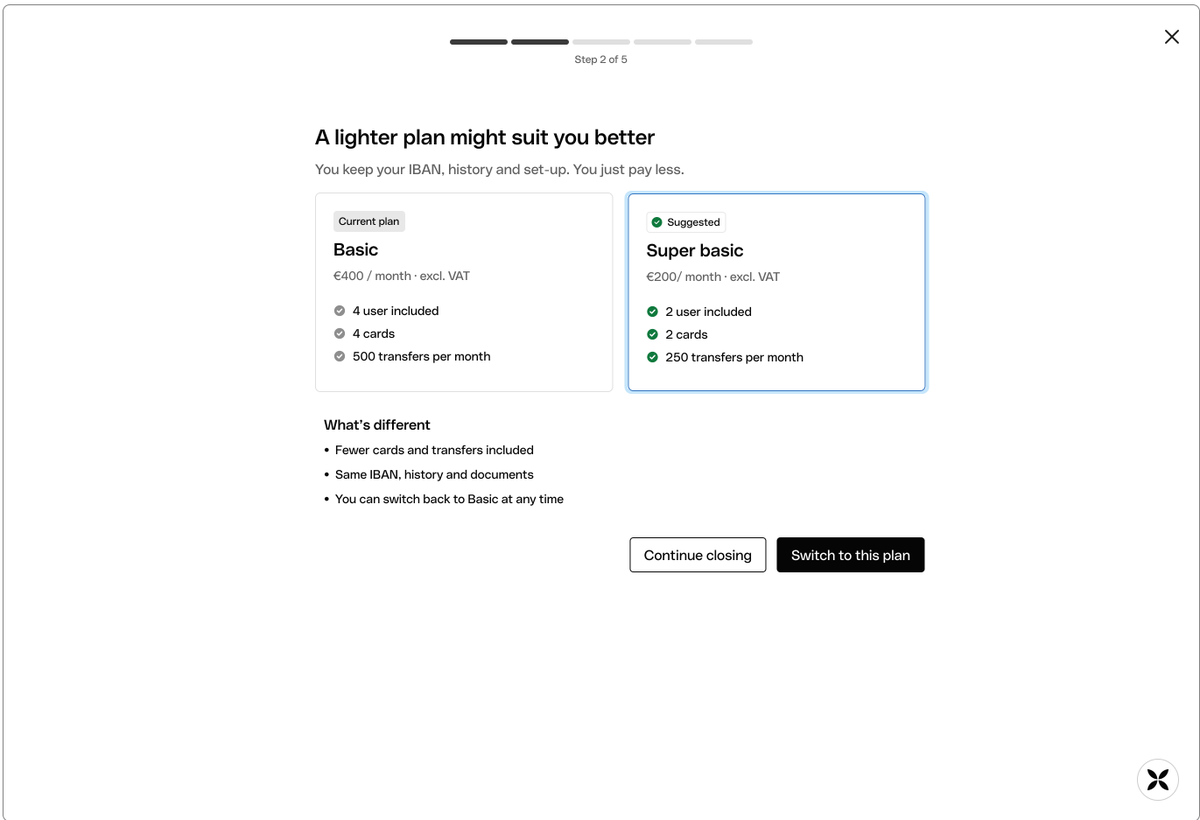
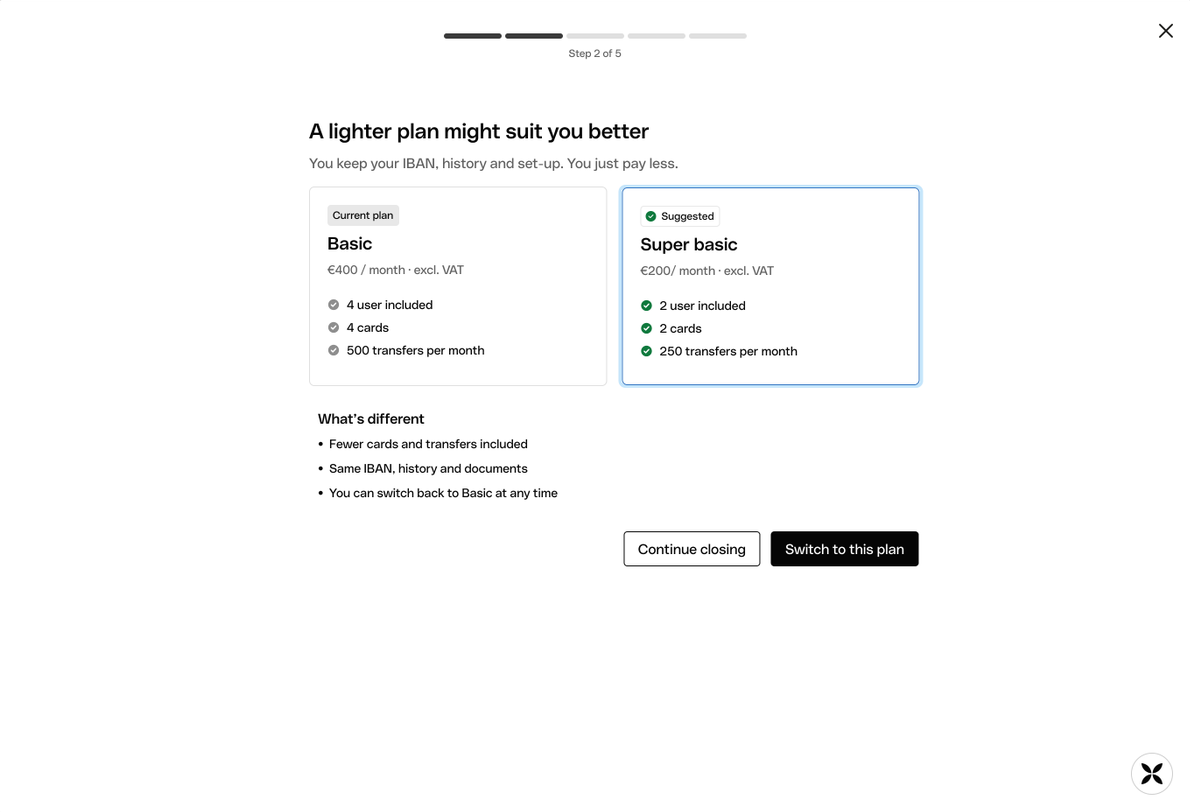
Qonto page: content cleanup, hypotheses and metrics side by side, scenario as a quote, uncropped hi-fi screens, reordered next steps; page is now public
Claude-Session: https://claude.ai/code/session_01TzBzfV87exMVWc8euzdj78

diff --git a/work/qonto.html b/work/qonto.html
@@ -5,7 +5,6 @@
 <meta name="viewport" content="width=device-width, initial-scale=1.0">
 <title data-i18n="meta.title">Cierre de cuenta · Javier Díaz</title>
 <link rel="icon" type="image/svg+xml" href="../favicon.svg">
-<meta name="robots" content="noindex, nofollow">
 <meta name="description" data-i18n="meta.description" data-i18n-attr="content" content="Caso de estudio: rediseño del flujo de cierre de cuenta de Qonto (ejercicio de diseño de producto).">
 
 <!-- Tailwind CDN -->
@@ -138,25 +137,9 @@
 
   <main class="flex-1">
 
-    <!-- ===== PASSWORD GATE ===== -->
-    <section id="password-gate" class="max-w-[1680px] mx-auto px-6 sm:px-16 pt-[91px] sm:pt-[159px] pb-20 min-h-[60vh] flex flex-col justify-center">
-      <div class="max-w-xl mx-auto text-center w-full">
-      <h1 class="t-h2 mb-8" data-i18n="gate.heading">
-        Este proyecto está protegido
-      </h1>
-      <form id="password-form" class="flex flex-col gap-3" autocomplete="off">
-        <label for="password-input" class="sr-only" data-i18n="gate.label">Contraseña</label>
-        <input type="password" id="password-input" name="password" autocomplete="off" placeholder="Introduce la contraseña" data-i18n="gate.placeholder" data-i18n-attr="placeholder" class="focus-ring w-full text-center px-6 py-3.5 rounded-full border border-ink/15 bg-paper text-ink placeholder:text-slate/60">
-        <button type="submit" class="focus-ring inline-flex items-center justify-center gap-2 bg-ink text-paper t-s-m px-6 py-4 rounded-full hover:bg-slate transition-colors" data-i18n="gate.button">
-          Acceder
-        </button>
-        <p id="password-error" class="hidden text-base text-red-600/80 mt-1" data-i18n="gate.error">Contraseña incorrecta. Inténtalo de nuevo.</p>
-      </form>
-      </div>
-    </section>
 
 
-    <div id="protected-content" class="hidden">
+    <div id="protected-content">
 
     <nav id="section-index" class="group/index hidden xl:flex flex-col items-end gap-4 fixed right-6 top-1/2 -translate-y-1/2 z-30" aria-label="Índice de secciones">
       <button type="button" class="section-index-item flex items-center gap-3 focus-ring rounded" data-target="s01">
@@ -205,12 +188,12 @@
     <section class="max-w-[1680px] mx-auto px-6 sm:px-16 pt-[91px] sm:pt-[159px]">
       <h1 class="reveal is-visible t-h1" data-i18n="hero.title">Cierre de cuenta</h1>
 
-      <p class="reveal is-visible mt-6 t-h4 text-slate" data-i18n="hero.subtitle">Rediseño del flujo de cierre de cuenta para que marcharse sea claro, justo y seguro, y para que Qonto entienda por qué se van sus clientes y recupere a los que de verdad puede ayudar. Proteger primero, aprender después y retener solo cuando realmente ayuda.</p>
+      <p class="reveal is-visible mt-6 t-h4 text-slate" data-i18n="hero.subtitle">Rediseño del flujo de cierre de cuenta para que marcharse sea claro, justo y seguro.</p>
 
       <div class="reveal is-visible mt-8 sm:mt-12 pt-0 sm:pt-8 grid grid-cols-2 sm:grid-cols-4 gap-x-6 gap-y-6 sm:gap-8">
         <div><p class="t-h6 text-slate mb-1 sm:mb-2" data-i18n="hero.role.label">Rol</p><p class="t-h5 t-meta text-ink" data-i18n="hero.role.value">Product Designer</p></div>
         <div><p class="t-h6 text-slate mb-1 sm:mb-2" data-i18n="hero.year.label">Año</p><p class="t-h5 t-meta text-ink" data-i18n="hero.year.value">2026</p></div>
-        <div><p class="t-h6 text-slate mb-1 sm:mb-2" data-i18n="hero.team.label">Equipo</p><p class="t-h5 t-meta text-ink" data-i18n="hero.team.value">Individual</p></div>
+        <div><p class="t-h6 text-slate mb-1 sm:mb-2" data-i18n="hero.team.label">Formato</p><p class="t-h5 t-meta text-ink" data-i18n="hero.team.value">Caso de estudio</p></div>
       </div>
 
       <div class="mt-16 md:mt-20">
@@ -241,7 +224,7 @@
         <span class="t-h6 text-slate" data-i18n="s03.eyebrow">Análisis del flujo actual</span>
       </div>
       <h2 class="reveal t-h2 mb-4 md:mb-6" data-i18n="s03.heading">Un flujo que informa, pero no ayuda</h2>
-<div class="reveal mb-8 md:mb-14"><p class="t-p text-slate" data-i18n="s03.p1">Analicé una a una las cinco pantallas del flujo actual: qué funciona y conviene conservar, los puntos de dolor (posibles riesgos para la persona) y las mejoras de diseño. Esta tabla resume el análisis.</p></div><div class="reveal overflow-x-auto rounded-2xl border border-ink/15 bg-paper"><img src="qonto/flow-summary.png" alt="Tabla resumen del análisis del flujo actual, pantalla a pantalla: qué funciona, puntos de dolor y mejoras" data-i18n="s03.img" data-i18n-attr="alt" class="block w-full h-auto min-w-[900px] md:min-w-0" loading="lazy"></div><p class="reveal text-base text-slate mt-3" data-i18n="s03.img.cap">Resumen del análisis de las cinco pantallas: introducción, motivos, detalle del motivo, consecuencias y confirmación.</p><div class="reveal mt-10 md:mt-20 mb-6"><h3 class="t-h4 t-medium mb-2" data-i18n="s03.ins.h">Seis conclusiones</h3></div><div class="reveal mb-8 md:mb-14 grid sm:grid-cols-2 gap-x-8 gap-y-10 md:gap-x-10">
+<div class="reveal mb-8 md:mb-14"><p class="t-p text-slate" data-i18n="s03.p1">Analicé una a una las cinco pantallas del flujo actual: qué funciona y conviene conservar, los puntos de dolor (posibles riesgos para la persona) y las mejoras de diseño. Esta tabla resume el análisis.</p></div><div class="reveal overflow-x-auto rounded-2xl border border-ink/15 bg-paper"><img src="qonto/flow-summary.png" alt="Tabla resumen del análisis del flujo actual, pantalla a pantalla: qué funciona, puntos de dolor y mejoras" data-i18n="s03.img" data-i18n-attr="alt" class="block w-full h-auto min-w-[900px] md:min-w-0" loading="lazy"></div><p class="reveal text-base text-slate mt-3" data-i18n="s03.img.cap">Resumen del análisis de las cinco pantallas: introducción, motivos, detalle del motivo, consecuencias y confirmación.</p><div class="reveal mt-10 md:mt-20 mb-8 md:mb-14 grid sm:grid-cols-2 gap-x-8 gap-y-10 md:gap-x-10">
 <div class="sm:border-l sm:border-ink/[0.08] sm:pl-8 sm:-ml-px"><h3 class="t-h4 t-medium mb-2" data-i18n="s03i.c1.h">Dice qué hacer, pero no ayuda a hacerlo</h3><div class="t-p text-slate" data-i18n="s03i.c1.p">Los requisitos (saldo a 0 €, sin pagos pendientes) se listan al inicio y se repiten al final, pero nunca se comprueban ni se pueden resolver dentro del flujo.</div></div>
 <div class="sm:border-l sm:border-ink/[0.08] sm:pl-8"><h3 class="t-h4 t-medium mb-2" data-i18n="s03i.c2.h">Pregunta por qué se van, pero no escucha</h3><div class="t-p text-slate" data-i18n="s03i.c2.p">Dos capas de preguntas y el flujo sigue igual para todos. Quien solo pausa, reduce o cambia de titular quizá no necesita cerrar.</div></div>
 <div class="sm:border-l sm:border-ink/[0.08] sm:pl-8 sm:-ml-px"><h3 class="t-h4 t-medium mb-2" data-i18n="s03i.c3.h">El estado del cierre nunca está claro</h3><div class="t-p text-slate" data-i18n="s03i.c3.p">«Estás cerrando», «si cumples los requisitos», «permanentemente» y, al final, una pantalla de «éxito».</div></div>
@@ -282,18 +265,21 @@
         <span class="t-h6 text-slate" data-i18n="s06.eyebrow">Estrategia de producto</span>
       </div>
       <h2 class="reveal t-h2 mb-4 md:mb-6" data-i18n="s06.heading">Del análisis a cinco hipótesis</h2>
-<div class="reveal mb-6"><h3 class="t-h4 t-medium mb-2" data-i18n="s06.prob.h">El problema</h3></div><div class="reveal mb-8 md:mb-14"><p class="t-p text-slate" data-i18n="s06.prob.p">Para una empresa, cerrar una cuenta no es un momento sino una migración: mover el dinero, compartir los nuevos datos bancarios, avisar a la asesoría y conseguir la aprobación de otras personas. El flujo actual lo trata como una lista de requisitos que leer y un formulario que rellenar: enumera requisitos sin ayudar a cumplirlos, pregunta por qué se van sin actuar sobre la respuesta y deja poco claros el estado del cierre y los siguientes pasos. Como resultado, las empresas cargan solas con el riesgo y el esfuerzo, y Qonto pierde la oportunidad de aprender de quienes no necesitaban irse.</p></div><div class="reveal mt-10 md:mt-20 mb-6"><h3 class="t-h4 t-medium mb-2" data-i18n="s06.goals.h">Objetivos</h3></div><div class="reveal mb-8 md:mb-14 grid sm:grid-cols-2 gap-x-8 gap-y-10 md:gap-x-10"><div class="sm:border-l sm:border-ink/[0.08] sm:pl-8 sm:-ml-px"><h3 class="t-h4 t-medium mb-2" data-i18n="s06g.c1.h">Para la persona</h3><div class="t-p text-slate" data-i18n="s06g.c1.p"><ul class="list-disc pl-5 space-y-1.5"><li>Irse con seguridad: sin pagos rotos, adeudos fallidos ni cargos sorpresa</li><li>Saber exactamente qué hacer, cuándo se cierra la cuenta y cuánto costará</li><li>Superar la transición: mover el dinero, compartir los nuevos datos bancarios y avisar a la asesoría</li><li>Conservar el acceso a los extractos y tener una prueba del cierre</li><li>Saber si cerrar es siquiera necesario (una pausa, un plan más barato, un cambio de titular)</li></ul></div></div><div class="sm:border-l sm:border-ink/[0.08] sm:pl-8"><h3 class="t-h4 t-medium mb-2" data-i18n="s06g.c2.h">Para el negocio</h3><div class="t-p text-slate" data-i18n="s06g.c2.p"><ul class="list-disc pl-5 space-y-1.5"><li>Retener a los clientes que no necesitaban irse, con ofertas relevantes para ellos</li><li>Capturar motivos de cierre estructurados y accionables</li><li>Reducir los contactos a soporte y el trabajo manual de Ops</li><li>Cumplir con la conservación de datos, las aprobaciones y la información obligatoria</li><li>Dejar una buena última impresión, para que puedan volver</li></ul></div></div></div><div class="reveal mt-10 md:mt-20 mb-6"><h3 class="t-h4 t-medium mb-2" data-i18n="s06.hyp.h">Cinco hipótesis</h3></div><div class="reveal mb-8 md:mb-14 grid sm:grid-cols-3 gap-x-8 gap-y-10 md:gap-x-10">
+<div class="reveal mb-8 md:mb-14"><p class="t-p text-slate" data-i18n="s06.prob.p">Para una empresa, cerrar una cuenta no es un momento sino una migración: mover el dinero, compartir los nuevos datos bancarios, avisar a la asesoría y conseguir la aprobación de otras personas. El flujo actual lo trata como una lista de requisitos que leer y un formulario que rellenar: enumera requisitos sin ayudar a cumplirlos, pregunta por qué se van sin actuar sobre la respuesta y deja poco claros el estado del cierre y los siguientes pasos. Como resultado, las empresas cargan solas con el riesgo y el esfuerzo, y Qonto pierde la oportunidad de aprender de quienes no necesitaban irse.</p></div><div class="reveal mt-10 md:mt-20 mb-6"><h3 class="t-h4 t-medium mb-2" data-i18n="s06.goals.h">Objetivos</h3></div><div class="reveal mb-8 md:mb-14 grid sm:grid-cols-2 gap-x-8 gap-y-10 md:gap-x-10"><div class="sm:border-l sm:border-ink/[0.08] sm:pl-8 sm:-ml-px"><h3 class="t-h4 t-medium mb-2" data-i18n="s06g.c1.h">Para la persona</h3><div class="t-p text-slate" data-i18n="s06g.c1.p"><ul class="list-disc pl-5 space-y-1.5"><li>Irse con seguridad: sin pagos rotos, adeudos fallidos ni cargos sorpresa</li><li>Saber exactamente qué hacer, cuándo se cierra la cuenta y cuánto costará</li><li>Superar la transición: mover el dinero, compartir los nuevos datos bancarios y avisar a la asesoría</li><li>Conservar el acceso a los extractos y tener una prueba del cierre</li><li>Saber si cerrar es siquiera necesario (una pausa, un plan más barato, un cambio de titular)</li></ul></div></div><div class="sm:border-l sm:border-ink/[0.08] sm:pl-8"><h3 class="t-h4 t-medium mb-2" data-i18n="s06g.c2.h">Para el negocio</h3><div class="t-p text-slate" data-i18n="s06g.c2.p"><ul class="list-disc pl-5 space-y-1.5"><li>Retener a los clientes que no necesitaban irse, con ofertas relevantes para ellos</li><li>Capturar motivos de cierre estructurados y accionables</li><li>Reducir los contactos a soporte y el trabajo manual de Ops</li><li>Cumplir con la conservación de datos, las aprobaciones y la información obligatoria</li><li>Dejar una buena última impresión, para que puedan volver</li></ul></div></div></div><div class="reveal mt-10 md:mt-20 grid md:grid-cols-2 gap-x-10 gap-y-14">
+<div><div class="mb-6"><h3 class="t-h4 t-medium mb-2" data-i18n="s06.hyp.h">Cinco hipótesis</h3></div><div class="grid gap-y-10">
 <div class="sm:border-l sm:border-ink/[0.08] sm:pl-8 sm:-ml-px"><h3 class="t-h4 t-medium mb-2" data-i18n="s06h.c1.h">H1 · Requisitos sobre los que se puede actuar</h3><div class="t-p text-slate" data-i18n="s06h.c1.p">Creemos que mostrar cada requisito con su estado real y una acción en línea (por ejemplo, «Transferir el saldo restante») reducirá los cierres aplazados y los contactos a soporte, porque hoy hay que salir del flujo para comprobarlos y arreglarlos.</div></div>
 <div class="sm:border-l sm:border-ink/[0.08] sm:pl-8"><h3 class="t-h4 t-medium mb-2" data-i18n="s06h.c2.h">H2 · Siguiente paso según el motivo</h3><div class="t-p text-slate" data-i18n="s06h.c2.p">Creemos que preguntar el motivo una sola vez y adaptar el siguiente paso a él llevará a más usuarios a mantener su cuenta sin dañar la satisfacción.</div></div>
-<div class="sm:border-l sm:border-ink/[0.08] sm:pl-8"><h3 class="t-h4 t-medium mb-2" data-i18n="s06h.c3.h">H3 · Apoyo en la transición</h3><div class="t-p text-slate" data-i18n="s06h.c3.p">Creemos que ayudar a planificar la fecha de cierre, ver los cobros y adeudos entrantes, exportar extractos y avisar a la asesoría reducirá los problemas tras el cierre, porque para una empresa cerrar es una migración, no un momento.</div></div>
-<div class="sm:border-l sm:border-ink/[0.08] sm:pl-8 sm:-ml-px"><h3 class="t-h4 t-medium mb-2" data-i18n="s06h.c4.h">H4 · Estado claro y prueba de cierre</h3><div class="t-p text-slate" data-i18n="s06h.c4.p">Creemos que indicar la fecha de cierre, el coste, qué deja de funcionar y qué se conserva, junto con una confirmación del cierre, reducirá las quejas y generará confianza.</div></div>
-<div class="sm:border-l sm:border-ink/[0.08] sm:pl-8"><h3 class="t-h4 t-medium mb-2" data-i18n="s06h.c5.h">H5 · Roles y aprobaciones visibles</h3><div class="t-p text-slate" data-i18n="s06h.c5.p">Creemos que mostrar quién puede cerrar, quién debe aprobar y avisar a otros administradores evitará cierres discutidos o inesperados, porque en una empresa cerrar es una decisión compartida.</div></div>
-</div><div class="reveal mt-10 md:mt-20 mb-6"><h3 class="t-h4 t-medium mb-2" data-i18n="s06.met.h">Métricas de éxito</h3></div><div class="reveal mb-0 grid sm:grid-cols-3 gap-x-8 gap-y-10 md:gap-x-10">
+<div class="sm:border-l sm:border-ink/[0.08] sm:pl-8 sm:-ml-px"><h3 class="t-h4 t-medium mb-2" data-i18n="s06h.c3.h">H3 · Apoyo en la transición</h3><div class="t-p text-slate" data-i18n="s06h.c3.p">Creemos que ayudar a planificar la fecha de cierre, ver los cobros y adeudos entrantes, exportar extractos y avisar a la asesoría reducirá los problemas tras el cierre, porque para una empresa cerrar es una migración, no un momento.</div></div>
+<div class="sm:border-l sm:border-ink/[0.08] sm:pl-8"><h3 class="t-h4 t-medium mb-2" data-i18n="s06h.c4.h">H4 · Estado claro y prueba de cierre</h3><div class="t-p text-slate" data-i18n="s06h.c4.p">Creemos que indicar la fecha de cierre, el coste, qué deja de funcionar y qué se conserva, junto con una confirmación del cierre, reducirá las quejas y generará confianza.</div></div>
+<div class="sm:border-l sm:border-ink/[0.08] sm:pl-8 sm:-ml-px"><h3 class="t-h4 t-medium mb-2" data-i18n="s06h.c5.h">H5 · Roles y aprobaciones visibles</h3><div class="t-p text-slate" data-i18n="s06h.c5.p">Creemos que mostrar quién puede cerrar, quién debe aprobar y avisar a otros administradores evitará cierres discutidos o inesperados, porque en una empresa cerrar es una decisión compartida.</div></div>
+</div></div>
+<div><div class="mb-6"><h3 class="t-h4 t-medium mb-2" data-i18n="s06.met.h">Métricas de éxito</h3></div><div class="grid gap-y-10">
 <div class="sm:border-l sm:border-ink/[0.08] sm:pl-8 sm:-ml-px"><h3 class="t-h4 t-medium mb-2" data-i18n="s06m.c1.h">Principales</h3><div class="t-p text-slate" data-i18n="s06m.c1.p"><ul class="list-disc pl-5 space-y-1.5"><li>Solicitudes de cierre completadas sin contactar con soporte (H1, H4)</li><li>Cierres completados en la fecha prevista, sin aplazarse (H1)</li></ul></div></div>
 <div class="sm:border-l sm:border-ink/[0.08] sm:pl-8"><h3 class="t-h4 t-medium mb-2" data-i18n="s06m.c2.h">Operaciones</h3><div class="t-p text-slate" data-i18n="s06m.c2.p"><ul class="list-disc pl-5 space-y-1.5"><li>Tickets de soporte por cierre, durante y después del flujo (H1, H3, H4)</li><li>Incidencias tras el cierre: adeudos fallidos, transferencias devueltas, cargos inesperados (H3, H4)</li></ul></div></div>
-<div class="sm:border-l sm:border-ink/[0.08] sm:pl-8"><h3 class="t-h4 t-medium mb-2" data-i18n="s06m.c3.h">Win-back</h3><div class="t-p text-slate" data-i18n="s06m.c3.p"><ul class="list-disc pl-5 space-y-1.5"><li>Usuarios que eligen una alternativa y siguen activos a los 90 días (H2)</li></ul></div></div>
-<div class="sm:border-l sm:border-ink/[0.08] sm:pl-8 sm:-ml-px"><h3 class="t-h4 t-medium mb-2" data-i18n="s06m.c4.h">Información</h3><div class="t-p text-slate" data-i18n="s06m.c4.p"><ul class="list-disc pl-5 space-y-1.5"><li>Cierres con un motivo accionable, no omitido ni vago (H2)</li></ul></div></div>
-<div class="sm:border-l sm:border-ink/[0.08] sm:pl-8"><h3 class="t-h4 t-medium mb-2" data-i18n="s06m.c5.h">Guardarraíles</h3><div class="t-p text-slate" data-i18n="s06m.c5.p"><ul class="list-disc pl-5 space-y-1.5"><li>Tiempo de finalización de quienes ya han decidido cerrar (sin fricción añadida)</li><li>Satisfacción de quienes cierran, con una breve encuesta de salida (sin pérdida de confianza)</li><li>Cierres cancelados antes de la fecha prevista (un pico indicaría consecuencias poco claras)</li></ul></div></div>
+<div class="sm:border-l sm:border-ink/[0.08] sm:pl-8 sm:-ml-px"><h3 class="t-h4 t-medium mb-2" data-i18n="s06m.c3.h">Win-back</h3><div class="t-p text-slate" data-i18n="s06m.c3.p"><ul class="list-disc pl-5 space-y-1.5"><li>Usuarios que eligen una alternativa y siguen activos a los 90 días (H2)</li></ul></div></div>
+<div class="sm:border-l sm:border-ink/[0.08] sm:pl-8"><h3 class="t-h4 t-medium mb-2" data-i18n="s06m.c4.h">Información</h3><div class="t-p text-slate" data-i18n="s06m.c4.p"><ul class="list-disc pl-5 space-y-1.5"><li>Cierres con un motivo accionable, no omitido ni vago (H2)</li></ul></div></div>
+<div class="sm:border-l sm:border-ink/[0.08] sm:pl-8 sm:-ml-px"><h3 class="t-h4 t-medium mb-2" data-i18n="s06m.c5.h">Guardarraíles</h3><div class="t-p text-slate" data-i18n="s06m.c5.p"><ul class="list-disc pl-5 space-y-1.5"><li>Tiempo de finalización de quienes ya han decidido cerrar (sin fricción añadida)</li><li>Satisfacción de quienes cierran, con una breve encuesta de salida (sin pérdida de confianza)</li><li>Cierres cancelados antes de la fecha prevista (un pico indicaría consecuencias poco claras)</li></ul></div></div>
+</div></div>
 </div>
     </section>
 
@@ -314,7 +300,7 @@
         <span class="t-h6 text-slate" data-i18n="s08.eyebrow">Wireframes de baja fidelidad</span>
       </div>
       <h2 class="reveal t-h2 mb-4 md:mb-6" data-i18n="s08.heading">De la lógica a las pantallas</h2>
-<div class="reveal mb-6"><h3 class="t-h4 t-medium mb-2" data-i18n="s01.scn.h">El escenario que diseñé</h3></div><div class="reveal mb-6"><p class="t-p text-slate" data-i18n="s01.scn.p">Una pequeña empresa encuentra Qonto demasiado caro y decide cerrar su cuenta. Qonto le sugiere un plan más ligero, pero lo rechaza y continúa. Antes de cerrar, mueve el saldo restante a su nuevo banco, revisa qué dejará de funcionar y qué se mantiene, y completa el cierre.</p></div><div class="reveal mb-10"><p class="reveal text-base text-slate " data-i18n="s01.note">Los nombres de cuenta, importes y fechas que aparecen en las pantallas son datos de ejemplo.</p></div><div class="reveal mb-10"><p class="t-p text-slate" data-i18n="s08.p1">Antes de pasar a alta fidelidad probé la estructura con wireframes de baja fidelidad del escenario propuesto: el motivo, la opción de un plan más ligero, prepararse para cerrar (con y sin resolver el saldo), la última revisión y la confirmación. Cada pantalla lleva anotada su intención.</p></div><div id="lowfi-carousel" class="reveal group relative aspect-[2/1] rounded-2xl overflow-hidden bg-paper border border-ink/15">
+<div class="reveal mb-10"><blockquote class="border-l-2 border-latte-dark pl-6 md:pl-8"><p class="t-h4 text-ink/80" data-i18n="s01.scn.p">«Una pequeña empresa encuentra Qonto demasiado caro y decide cerrar su cuenta. Qonto le sugiere un plan más ligero, pero lo rechaza y continúa. Antes de cerrar, mueve el saldo restante a su nuevo banco, revisa qué dejará de funcionar y qué se mantiene, y completa el cierre.»</p></blockquote></div><div class="reveal mb-10"><p class="t-p text-slate" data-i18n="s08.p1">Antes de pasar a alta fidelidad probé la estructura con wireframes de baja fidelidad del escenario propuesto: el motivo, la opción de un plan más ligero, prepararse para cerrar (con y sin resolver el saldo), la última revisión y la confirmación. Cada pantalla lleva anotada su intención.</p></div><div id="lowfi-carousel" class="reveal group relative aspect-[2/1] rounded-2xl overflow-hidden bg-paper border border-ink/15">
         <div id="lowfi-track" class="flex h-full transition-transform duration-500 ease-out"><img src="qonto/lofi-1.png" alt="Wireframe de baja fidelidad del paso 1: por qué cierras tu cuenta" data-i18n="s08.i1" data-i18n-attr="alt" class="w-full h-full object-contain p-3 md:p-6 shrink-0" loading="lazy"><img src="qonto/lofi-2.png" alt="Wireframe de baja fidelidad del paso 2: una opción para ti" data-i18n="s08.i2" data-i18n-attr="alt" class="w-full h-full object-contain p-3 md:p-6 shrink-0" loading="lazy"><img src="qonto/lofi-3.png" alt="Wireframe de baja fidelidad del paso 3: prepárate para cerrar" data-i18n="s08.i3" data-i18n-attr="alt" class="w-full h-full object-contain p-3 md:p-6 shrink-0" loading="lazy"><img src="qonto/lofi-4.png" alt="Wireframe de baja fidelidad del paso 3.1: resolver el saldo restante" data-i18n="s08.i4" data-i18n-attr="alt" class="w-full h-full object-contain p-3 md:p-6 shrink-0" loading="lazy"><img src="qonto/lofi-5.png" alt="Wireframe de baja fidelidad del paso 4: una última mirada antes de cerrar" data-i18n="s08.i5" data-i18n-attr="alt" class="w-full h-full object-contain p-3 md:p-6 shrink-0" loading="lazy"><img src="qonto/lofi-6.png" alt="Wireframe de baja fidelidad del paso 5: la cuenta se cierra en la fecha indicada" data-i18n="s08.i6" data-i18n-attr="alt" class="w-full h-full object-contain p-3 md:p-6 shrink-0" loading="lazy">
         </div>
         <button type="button" id="lowfi-prev" aria-label="Imagen anterior" class="focus-ring absolute top-1/2 left-4 -translate-y-1/2 w-9 h-9 hidden sm:flex items-center justify-center rounded-full bg-paper/90 backdrop-blur-sm text-ink hover:bg-paper transition-opacity opacity-0 group-hover:opacity-100 focus-visible:opacity-100 shadow-sm"><svg width="18" height="18" viewBox="0 0 24 24" fill="none" stroke="currentColor" stroke-width="2" stroke-linecap="round" stroke-linejoin="round"><path d="M15 18l-6-6 6-6"/></svg></button>
@@ -330,7 +316,7 @@
         <span class="t-h6 text-slate" data-i18n="s09.eyebrow">Alta fidelidad</span>
       </div>
       <h2 class="reveal t-h2 mb-4 md:mb-6" data-i18n="s09.heading">La solución en alta fidelidad</h2>
-<div class="reveal mb-10"><p class="t-p text-slate" data-i18n="s09.p1">Diseñé seis pantallas con el sistema de diseño de Qonto y contenido realista. Cada una responde a una o varias de las hipótesis.</p></div><div class="reveal grid sm:grid-cols-2 gap-x-8 gap-y-12 md:gap-x-10"><div><div class="overflow-hidden rounded-2xl border border-ink/15 bg-paper mb-5 aspect-[4/3]"><img src="qonto/hifi-1.png" alt="Pantalla en alta fidelidad: por qué cierras tu cuenta" data-i18n="s09.i1" data-i18n-attr="alt" class="block w-full h-full object-cover object-top" loading="lazy"></div><h3 class="t-h4 t-medium mb-2" data-i18n="s09.c1.h">1. ¿Por qué te vas?</h3><p class="t-p text-slate" data-i18n="s09.c1.p">Pregunto el motivo una sola vez, al principio, para que el resto del flujo se adapte. Las opciones usan las palabras de un dueño de negocio, «Prefiero no decirlo» evita forzar una respuesta que no encaja, y «Mantener mi cuenta» y «Habla con nosotros» están siempre a un clic. (H2)</p></div><div><div class="overflow-hidden rounded-2xl border border-ink/15 bg-paper mb-5 aspect-[4/3]"><img src="qonto/hifi-2.png" alt="Pantalla en alta fidelidad: un plan más ligero" data-i18n="s09.i2" data-i18n-attr="alt" class="block w-full h-full object-cover object-top" loading="lazy"></div><h3 class="t-h4 t-medium mb-2" data-i18n="s09.c2.h">2. Recuperar: un plan más ligero</h3><p class="t-p text-slate" data-i18n="s09.c2.p">Cuando el motivo es el precio, sugiero un plan más barato antes de seguir. Se muestran ambos planes lado a lado, con lo que se conserva (IBAN, historial, configuración) y lo que cambia. «Continuar con el cierre» pesa igual que «Cambiar a este plan», así que la oferta nunca parece una trampa. (H2)</p></div><div><div class="overflow-hidden rounded-2xl border border-ink/15 bg-paper mb-5 aspect-[4/3]"><img src="qonto/hifi-3.png" alt="Pantalla en alta fidelidad: prepárate para cerrar" data-i18n="s09.i3" data-i18n-attr="alt" class="block w-full h-full object-cover object-top" loading="lazy"></div><h3 class="t-h4 t-medium mb-2" data-i18n="s09.c3.h">3. Prepárate para cerrar</h3><p class="t-p text-slate" data-i18n="s09.c3.p">Los requisitos pasan de lista de reglas a checklist: solo lo que bloquea el cierre pide acción y el resto es informativo, para que nada sorprenda después. Los extractos se pueden descargar en cualquier momento. (H1, H3)</p></div><div><div class="overflow-hidden rounded-2xl border border-ink/15 bg-paper mb-5 aspect-[4/3]"><img src="qonto/hifi-4.png" alt="Pantalla en alta fidelidad: mover el saldo restante" data-i18n="s09.i4" data-i18n-attr="alt" class="block w-full h-full object-cover object-top" loading="lazy"></div><h3 class="t-h4 t-medium mb-2" data-i18n="s09.c4.h">3.1 Mover el saldo restante</h3><p class="t-p text-slate" data-i18n="s09.c4.p">El bloqueo más común se resuelve sin salir del flujo: la persona añade el IBAN de su nueva cuenta y se envía todo el saldo. Si aún no tiene otra cuenta, puede dejar el dinero en Qonto por ahora. Esta opción es una propuesta que hay que validar con Ops, Compliance y Finanzas. (H1, H3)</p></div><div><div class="overflow-hidden rounded-2xl border border-ink/15 bg-paper mb-5 aspect-[4/3]"><img src="qonto/hifi-5.png" alt="Pantalla en alta fidelidad: una última mirada antes de cerrar" data-i18n="s09.i5" data-i18n-attr="alt" class="block w-full h-full object-cover object-top" loading="lazy"></div><h3 class="t-h4 t-medium mb-2" data-i18n="s09.c5.h">4. Una última mirada antes de cerrar</h3><p class="t-p text-slate" data-i18n="s09.c5.p">Un resumen con la fecha de cierre y cómo se reembolsa la parte no usada del plan; al lado, qué deja de funcionar y qué se conserva. Con un interruptor se avisa al equipo que perderá el acceso. Una confirmación explícita deja claro que cerrar es permanente y «Mantener mi cuenta» sigue junto a la acción final. (H4, H5)</p></div><div><div class="overflow-hidden rounded-2xl border border-ink/15 bg-paper mb-5 aspect-[4/3]"><img src="qonto/hifi-6.png" alt="Pantalla en alta fidelidad: tu cuenta se cierra en la fecha indicada" data-i18n="s09.i6" data-i18n-attr="alt" class="block w-full h-full object-cover object-top" loading="lazy"></div><h3 class="t-h4 t-medium mb-2" data-i18n="s09.c6.h">5. Tu cuenta se cierra el [fecha]</h3><p class="t-p text-slate" data-i18n="s09.c6.p">Un estado claro: la fecha de cierre, una confirmación por email, una prueba descargable y una línea de tiempo de lo que ocurre, incluido hasta cuándo se puede cancelar. Debajo, tareas para una transición ordenada: compartir los nuevos datos bancarios, avisar a la asesoría y mover los adeudos. (H3, H4)</p></div></div>
+<div class="reveal mb-10"><p class="t-p text-slate" data-i18n="s09.p1">Diseñé seis pantallas con el sistema de diseño de Qonto y contenido realista. Cada una responde a una o varias de las hipótesis.</p></div><div class="reveal grid sm:grid-cols-2 gap-x-8 gap-y-12 md:gap-x-10"><div><div class="overflow-hidden rounded-2xl border border-ink/10 bg-[#F3F2F6] mb-5 aspect-[4/3]"><img src="qonto/hifi-1.png?v=2" alt="Pantalla en alta fidelidad: por qué cierras tu cuenta" data-i18n="s09.i1" data-i18n-attr="alt" class="block w-full h-full object-contain p-3 md:p-5" loading="lazy"></div><h3 class="t-h4 t-medium mb-2" data-i18n="s09.c1.h">1. ¿Por qué te vas?</h3><p class="t-p text-slate" data-i18n="s09.c1.p">Pregunto el motivo una sola vez, al principio, para que el resto del flujo se adapte. Las opciones usan las palabras de un dueño de negocio, «Prefiero no decirlo» evita forzar una respuesta que no encaja, y «Mantener mi cuenta» y «Habla con nosotros» están siempre a un clic. (H2)</p></div><div><div class="overflow-hidden rounded-2xl border border-ink/10 bg-[#F3F2F6] mb-5 aspect-[4/3]"><img src="qonto/hifi-2.png?v=2" alt="Pantalla en alta fidelidad: un plan más ligero" data-i18n="s09.i2" data-i18n-attr="alt" class="block w-full h-full object-contain p-3 md:p-5" loading="lazy"></div><h3 class="t-h4 t-medium mb-2" data-i18n="s09.c2.h">2. Recuperar: un plan más ligero</h3><p class="t-p text-slate" data-i18n="s09.c2.p">Cuando el motivo es el precio, sugiero un plan más barato antes de seguir. Se muestran ambos planes lado a lado, con lo que se conserva (IBAN, historial, configuración) y lo que cambia. «Continuar con el cierre» pesa igual que «Cambiar a este plan», así que la oferta nunca parece una trampa. (H2)</p></div><div><div class="overflow-hidden rounded-2xl border border-ink/10 bg-[#F3F2F6] mb-5 aspect-[4/3]"><img src="qonto/hifi-3.png?v=2" alt="Pantalla en alta fidelidad: prepárate para cerrar" data-i18n="s09.i3" data-i18n-attr="alt" class="block w-full h-full object-contain p-3 md:p-5" loading="lazy"></div><h3 class="t-h4 t-medium mb-2" data-i18n="s09.c3.h">3. Prepárate para cerrar</h3><p class="t-p text-slate" data-i18n="s09.c3.p">Los requisitos pasan de lista de reglas a checklist: solo lo que bloquea el cierre pide acción y el resto es informativo, para que nada sorprenda después. Los extractos se pueden descargar en cualquier momento. (H1, H3)</p></div><div><div class="overflow-hidden rounded-2xl border border-ink/10 bg-[#F3F2F6] mb-5 aspect-[4/3]"><img src="qonto/hifi-4.png?v=2" alt="Pantalla en alta fidelidad: mover el saldo restante" data-i18n="s09.i4" data-i18n-attr="alt" class="block w-full h-full object-contain p-3 md:p-5" loading="lazy"></div><h3 class="t-h4 t-medium mb-2" data-i18n="s09.c4.h">3.1 Mover el saldo restante</h3><p class="t-p text-slate" data-i18n="s09.c4.p">El bloqueo más común se resuelve sin salir del flujo: la persona añade el IBAN de su nueva cuenta y se envía todo el saldo. Si aún no tiene otra cuenta, puede dejar el dinero en Qonto por ahora. Esta opción es una propuesta que hay que validar con Ops, Compliance y Finanzas. (H1, H3)</p></div><div><div class="overflow-hidden rounded-2xl border border-ink/10 bg-[#F3F2F6] mb-5 aspect-[4/3]"><img src="qonto/hifi-5.png?v=2" alt="Pantalla en alta fidelidad: una última mirada antes de cerrar" data-i18n="s09.i5" data-i18n-attr="alt" class="block w-full h-full object-contain p-3 md:p-5" loading="lazy"></div><h3 class="t-h4 t-medium mb-2" data-i18n="s09.c5.h">4. Una última mirada antes de cerrar</h3><p class="t-p text-slate" data-i18n="s09.c5.p">Un resumen con la fecha de cierre y cómo se reembolsa la parte no usada del plan; al lado, qué deja de funcionar y qué se conserva. Con un interruptor se avisa al equipo que perderá el acceso. Una confirmación explícita deja claro que cerrar es permanente y «Mantener mi cuenta» sigue junto a la acción final. (H4, H5)</p></div><div><div class="overflow-hidden rounded-2xl border border-ink/10 bg-[#F3F2F6] mb-5 aspect-[4/3]"><img src="qonto/hifi-6.png?v=2" alt="Pantalla en alta fidelidad: tu cuenta se cierra en la fecha indicada" data-i18n="s09.i6" data-i18n-attr="alt" class="block w-full h-full object-contain p-3 md:p-5" loading="lazy"></div><h3 class="t-h4 t-medium mb-2" data-i18n="s09.c6.h">5. Tu cuenta se cierra el [fecha]</h3><p class="t-p text-slate" data-i18n="s09.c6.p">Un estado claro: la fecha de cierre, una confirmación por email, una prueba descargable y una línea de tiempo de lo que ocurre, incluido hasta cuándo se puede cancelar. Debajo, tareas para una transición ordenada: compartir los nuevos datos bancarios, avisar a la asesoría y mover los adeudos. (H3, H4)</p></div></div>
     </section>
 
     <!-- ===== 09 ===== -->
@@ -341,8 +327,8 @@
       </div>
       <h2 class="reveal t-h2 mb-4 md:mb-6" data-i18n="s10.heading">Qué haría a continuación</h2>
 <div class="reveal mb-0 grid sm:grid-cols-4 gap-x-8 gap-y-10 md:gap-x-10">
-<div class="sm:border-l sm:border-ink/[0.08] sm:pl-8 sm:-ml-px"><h3 class="t-h4 t-medium mb-2" data-i18n="s10.c1.h">Validar el diseño</h3><div class="t-p text-slate" data-i18n="s10.c1.p">Test de usabilidad con 5–6 administradores de empresa, centrado en la checklist y en la oferta de plan. Comprobar que «Prefiero no decirlo» no se usa en exceso y que se entiende qué se detiene y qué se conserva.</div></div>
-<div class="sm:border-l sm:border-ink/[0.08] sm:pl-8"><h3 class="t-h4 t-medium mb-2" data-i18n="s10.c2.h">Validar con el equipo</h3><div class="t-p text-slate" data-i18n="s10.c2.p"><ul class="list-disc pl-5 space-y-1.5"><li>Producto: qué alternativas se pueden ofrecer (plan más ligero, pausa, traspaso de titularidad)</li><li>Ingeniería: si la checklist puede mostrar en tiempo real el estado de cada requisito</li><li>Ops, Compliance y Finanzas: la propuesta de cuenta de custodia y los plazos de conservación de datos</li><li>Content Design: el texto final y la redacción exigida legalmente</li></ul></div></div>
+<div class="sm:border-l sm:border-ink/[0.08] sm:pl-8 sm:-ml-px"><h3 class="t-h4 t-medium mb-2" data-i18n="s10.c2.h">Validar con el equipo</h3><div class="t-p text-slate" data-i18n="s10.c2.p"><ul class="list-disc pl-5 space-y-1.5"><li>Producto: qué alternativas se pueden ofrecer (plan más ligero, pausa, traspaso de titularidad)</li><li>Ingeniería: si la checklist puede mostrar en tiempo real el estado de cada requisito</li><li>Ops, Compliance y Finanzas: la propuesta de cuenta de custodia y los plazos de conservación de datos</li><li>Content Design: el texto final y la redacción exigida legalmente</li></ul></div></div>
+<div class="sm:border-l sm:border-ink/[0.08] sm:pl-8"><h3 class="t-h4 t-medium mb-2" data-i18n="s10.c1.h">Validar el diseño</h3><div class="t-p text-slate" data-i18n="s10.c1.p">Test de usabilidad con 5–6 administradores de empresa, centrado en la checklist y en la oferta de plan. Comprobar que «Prefiero no decirlo» no se usa en exceso y que se entiende qué se detiene y qué se conserva.</div></div>
 <div class="sm:border-l sm:border-ink/[0.08] sm:pl-8"><h3 class="t-h4 t-medium mb-2" data-i18n="s10.c3.h">Medir</h3><div class="t-p text-slate" data-i18n="s10.c3.p">Obtener de Datos las bases de referencia de las métricas de éxito definidas en la estrategia. Lanzarlo como test A/B frente al flujo actual, vigilando de cerca los guardarraíles.</div></div>
 <div class="sm:border-l sm:border-ink/[0.08] sm:pl-8"><h3 class="t-h4 t-medium mb-2" data-i18n="s10.c4.h">Explorar más adelante</h3><div class="t-p text-slate" data-i18n="s10.c4.p"><ul class="list-disc pl-5 space-y-1.5"><li>Emails recordatorio antes de la fecha de cierre</li><li>Flujos para los otros motivos (pausa, traspaso de titularidad)</li><li>Versión móvil del flujo</li></ul></div></div>
 </div>
@@ -375,13 +361,13 @@
     "meta.title": "Cierre de cuenta · Javier Díaz",
     "meta.description": "Caso de estudio: rediseño del flujo de cierre de cuenta de Qonto (ejercicio de diseño de producto).",
     "hero.title": "Cierre de cuenta",
-    "hero.subtitle": "Rediseño del flujo de cierre de cuenta para que marcharse sea claro, justo y seguro, y para que Qonto entienda por qué se van sus clientes y recupere a los que de verdad puede ayudar. Proteger primero, aprender después y retener solo cuando realmente ayuda.",
+    "hero.subtitle": "Rediseño del flujo de cierre de cuenta para que marcharse sea claro, justo y seguro.",
     "hero.role.label": "Rol",
     "hero.year.label": "Año",
-    "hero.team.label": "Equipo",
+    "hero.team.label": "Formato",
     "hero.role.value": "Product Designer",
     "hero.year.value": "2026",
-    "hero.team.value": "Individual",
+    "hero.team.value": "Caso de estudio",
     "hero.i0": "Tres pasos del nuevo flujo de cierre de cuenta: por qué te vas, prepárate para cerrar y una última mirada antes de cerrar",
     "s01.p1": "Cerrar una cuenta es un momento sensible y de alto impacto: suele ser el último contacto con el cliente, pero también una oportunidad única para aprender de su experiencia y, cuando es posible, recuperarlo.",
     "s01g.c1.h": "Un cierre seguro",
@@ -395,7 +381,6 @@
     "s03.p1": "Analicé una a una las cinco pantallas del flujo actual: qué funciona y conviene conservar, los puntos de dolor (posibles riesgos para la persona) y las mejoras de diseño. Esta tabla resume el análisis.",
     "s03.img": "Tabla resumen del análisis del flujo actual, pantalla a pantalla: qué funciona, puntos de dolor y mejoras",
     "s03.img.cap": "Resumen del análisis de las cinco pantallas: introducción, motivos, detalle del motivo, consecuencias y confirmación.",
-    "s03.ins.h": "Seis conclusiones",
     "s03i.c1.h": "Dice qué hacer, pero no ayuda a hacerlo",
     "s03i.c1.p": "Los requisitos (saldo a 0 €, sin pagos pendientes) se listan al inicio y se repiten al final, pero nunca se comprueban ni se pueden resolver dentro del flujo.",
     "s03i.c2.h": "Pregunta por qué se van, pero no escucha",
@@ -431,7 +416,6 @@
     "s05.lim": "Limitación: un solo participante. Estas conclusiones son hipótesis que habría que contrastar con los datos de Qonto y con más entrevistas.",
     "s05.eyebrow": "Entrevista de usuario",
     "s05.heading": "Una conversación que cambió el enfoque",
-    "s06.prob.h": "El problema",
     "s06.prob.p": "Para una empresa, cerrar una cuenta no es un momento sino una migración: mover el dinero, compartir los nuevos datos bancarios, avisar a la asesoría y conseguir la aprobación de otras personas. El flujo actual lo trata como una lista de requisitos que leer y un formulario que rellenar: enumera requisitos sin ayudar a cumplirlos, pregunta por qué se van sin actuar sobre la respuesta y deja poco claros el estado del cierre y los siguientes pasos. Como resultado, las empresas cargan solas con el riesgo y el esfuerzo, y Qonto pierde la oportunidad de aprender de quienes no necesitaban irse.",
     "s06.goals.h": "Objetivos",
     "s06g.c1.h": "Para la persona",
@@ -473,9 +457,7 @@
     "s08.i4": "Wireframe de baja fidelidad del paso 3.1: resolver el saldo restante",
     "s08.i5": "Wireframe de baja fidelidad del paso 4: una última mirada antes de cerrar",
     "s08.i6": "Wireframe de baja fidelidad del paso 5: la cuenta se cierra en la fecha indicada",
-    "s01.scn.h": "El escenario que diseñé",
-    "s01.scn.p": "Una pequeña empresa encuentra Qonto demasiado caro y decide cerrar su cuenta. Qonto le sugiere un plan más ligero, pero lo rechaza y continúa. Antes de cerrar, mueve el saldo restante a su nuevo banco, revisa qué dejará de funcionar y qué se mantiene, y completa el cierre.",
-    "s01.note": "Los nombres de cuenta, importes y fechas que aparecen en las pantallas son datos de ejemplo.",
+    "s01.scn.p": "«Una pequeña empresa encuentra Qonto demasiado caro y decide cerrar su cuenta. Qonto le sugiere un plan más ligero, pero lo rechaza y continúa. Antes de cerrar, mueve el saldo restante a su nuevo banco, revisa qué dejará de funcionar y qué se mantiene, y completa el cierre.»",
     "s08.p1": "Antes de pasar a alta fidelidad probé la estructura con wireframes de baja fidelidad del escenario propuesto: el motivo, la opción de un plan más ligero, prepararse para cerrar (con y sin resolver el saldo), la última revisión y la confirmación. Cada pantalla lleva anotada su intención.",
     "s08.cap": "Seis pantallas, con anotaciones: por ejemplo, «Validar con stakeholders» en la solución para el saldo restante.",
     "s08.eyebrow": "Wireframes de baja fidelidad",
@@ -528,13 +510,13 @@
     "meta.title": "Account Closing · Javier Díaz",
     "meta.description": "Case study: redesign of Qonto’s account closing flow (product design exercise).",
     "hero.title": "Account Closing",
-    "hero.subtitle": "A redesign of the account closing flow so that leaving is clear, fair and safe, while Qonto learns why customers leave and wins back those it can genuinely help. Protect first, learn second, retain only when it truly helps the user.",
+    "hero.subtitle": "A redesign of the account closing flow so that leaving is clear, fair and safe.",
     "hero.role.label": "Role",
     "hero.year.label": "Year",
-    "hero.team.label": "Team",
+    "hero.team.label": "Format",
     "hero.role.value": "Product Designer",
     "hero.year.value": "2026",
-    "hero.team.value": "Solo",
+    "hero.team.value": "Case study",
     "hero.i0": "Three steps of the new account closing flow: why you are leaving, get ready to close and one last look before you close",
     "s01.p1": "Closing an account is a sensitive, high-impact moment: it is often the last touchpoint with a customer, but also a unique chance to learn from their experience and, when possible, win them back.",
     "s01g.c1.h": "A safe closing",
@@ -548,7 +530,6 @@
     "s03.p1": "I analysed the five screens of the current flow one by one: what works and should be kept, the pain points (possible risks for the user) and the design improvements. This table summarises the analysis.",
     "s03.img": "Summary table of the current flow analysis, screen by screen: what works, pain points and improvements",
     "s03.img.cap": "Summary of the analysis of the five screens: introduction, closing reasons, reason details, consequences and confirmation.",
-    "s03.ins.h": "Six insights",
     "s03i.c1.h": "It tells users what to do, but doesn’t help them do it",
     "s03i.c1.p": "Requirements (€0 balance, no pending payments) are listed at the start and repeated at the end, but never checked or fixable inside the flow.",
     "s03i.c2.h": "It asks why users leave, but doesn’t listen",
@@ -584,7 +565,6 @@
     "s05.lim": "Limitation: a single participant. These insights are hypotheses to validate with Qonto’s data and more interviews.",
     "s05.eyebrow": "User interview",
     "s05.heading": "A conversation that shaped the approach",
-    "s06.prob.h": "Problem statement",
     "s06.prob.p": "For a business, closing an account isn’t a single moment but a migration: moving money, sharing new bank details, informing the accountant and getting approval from others. The current flow treats it as a checklist to read and a form to fill. It lists requirements without helping users meet them, asks why they leave without acting on the answer, and leaves the closing status and next steps unclear. As a result, businesses carry the risk and effort alone, and Qonto misses the chance to learn from those who didn’t need to leave.",
     "s06.goals.h": "Goals",
     "s06g.c1.h": "For the user",
@@ -626,9 +606,7 @@
     "s08.i4": "Low-fi wireframe of step 3.1: fix the remaining balance",
     "s08.i5": "Low-fi wireframe of step 4: one last look before you close",
     "s08.i6": "Low-fi wireframe of step 5: your account closes on the given date",
-    "s01.scn.h": "The scenario I designed",
-    "s01.scn.p": "A small business finds Qonto too expensive and decides to close its account. Qonto suggests a lighter plan, but the user declines and continues. Before closing, the user moves the remaining balance to a new bank, reviews what will stop and what will stay, and goes ahead with the closing.",
-    "s01.note": "The account names, amounts and dates shown on the screens are sample data.",
+    "s01.scn.p": "“A small business finds Qonto too expensive and decides to close its account. Qonto suggests a lighter plan, but the user declines and continues. Before closing, the user moves the remaining balance to a new bank, reviews what will stop and what will stay, and goes ahead with the closing.”",
     "s08.p1": "Before moving to high fidelity I tested the structure with low-fidelity wireframes of the proposed scenario: the reason, the lighter-plan option, getting ready to close (with and without fixing the balance), the last review and the confirmation. Each screen carries a note on its intent.",
     "s08.cap": "Six screens, with annotations: for example, “Validate with stakeholders” on the remaining-balance solution.",
     "s08.eyebrow": "Low-fi wireframes",
@@ -731,48 +709,6 @@
     setLang(savedLang || 'en');
     document.body.classList.add('is-ready');
 
-    // ===== Contraseña del proyecto =====
-    (function () {
-      const gate = document.getElementById('password-gate');
-      const content = document.getElementById('protected-content');
-      const form = document.getElementById('password-form');
-      const input = document.getElementById('password-input');
-      const errorEl = document.getElementById('password-error');
-      if (!gate || !content || !form || !input) return;
-
-      const storageKey = 'unlock-qonto';
[1 lines of base64/hex data omitted]
-
-      async function sha256(text) {
-        const buffer = await crypto.subtle.digest('SHA-256', new TextEncoder().encode(text));
-        return Array.from(new Uint8Array(buffer)).map((b) => b.toString(16).padStart(2, '0')).join('');
-      }
-
-      function unlock() {
-        gate.classList.add('hidden');
-        content.classList.remove('hidden');
-      }
-
-      if (sessionStorage.getItem(storageKey) === '1') {
-        unlock();
-      }
-
-      form.addEventListener('submit', async (e) => {
-        e.preventDefault();
-        const value = input.value.trim();
-        if (!value) return;
-        const hash = await sha256(value);
-        if (hash === correctHash) {
-          errorEl.classList.add('hidden');
-          sessionStorage.setItem(storageKey, '1');
-          unlock();
-        } else {
-          errorEl.classList.remove('hidden');
-          input.value = '';
-          input.focus();
-        }
-      });
-    })();
 
 
 
